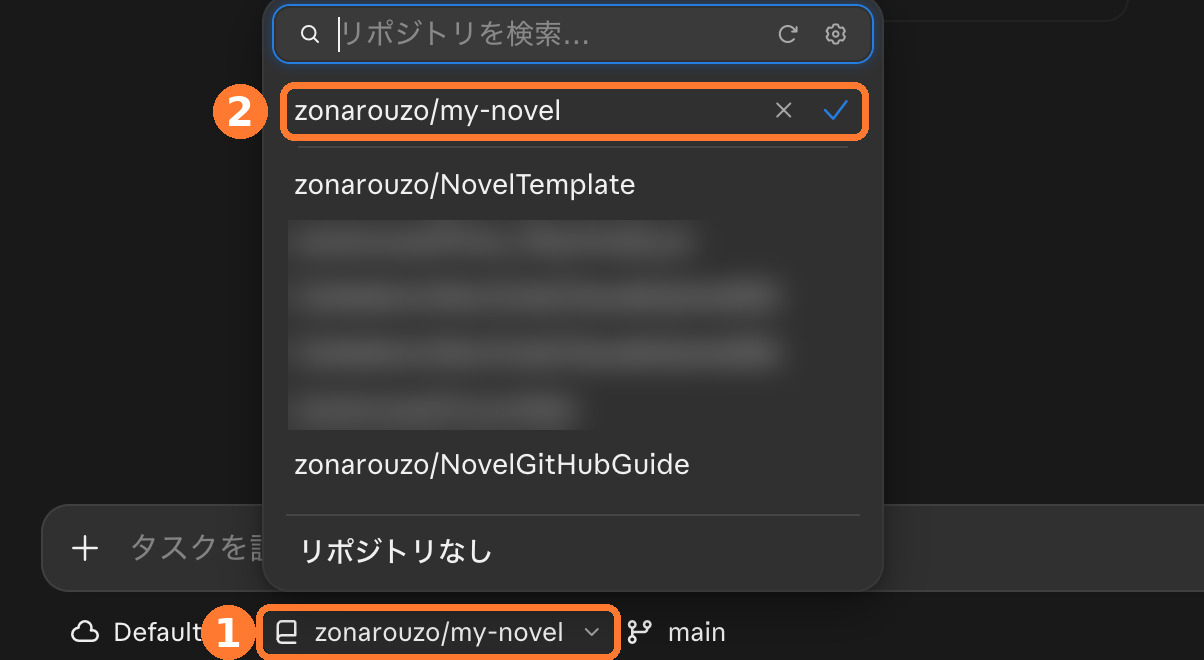
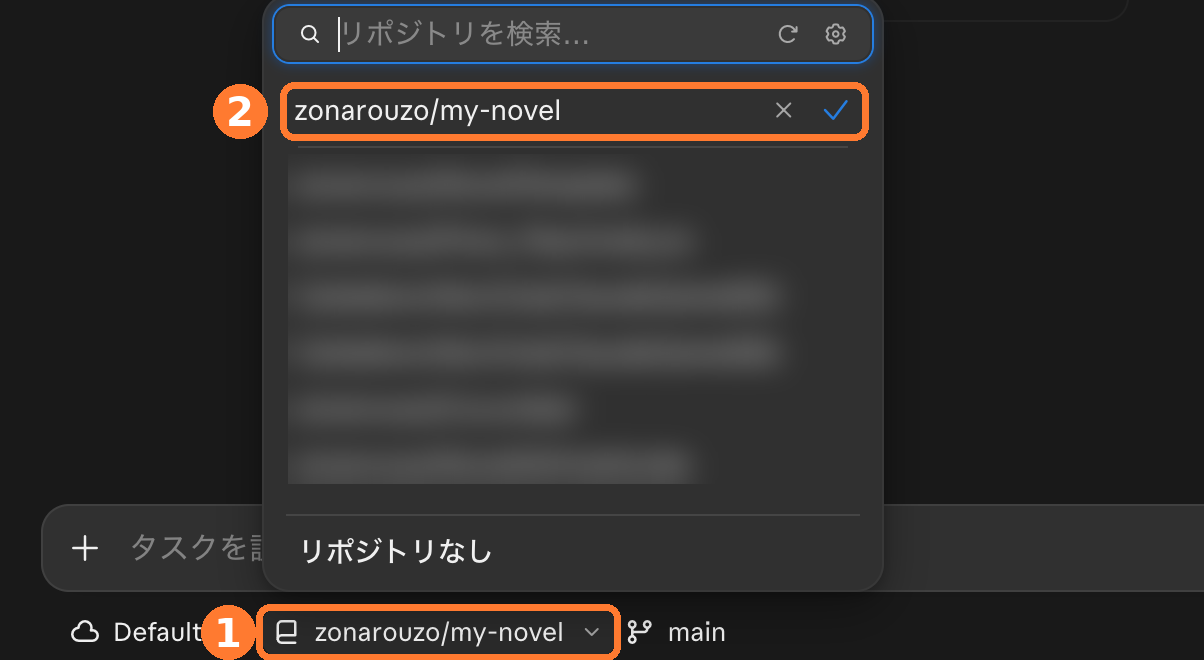
リポジトリ選択の「テンプレートは選ばないでください」を削除
- テンプレートは作者のアカウントにしか表示されないため、利用者向けの注意としては不要
- 小説版のリポジトリ選択の画像は、my-novel 以外のリポジトリ名をすべてぼかした

Claude-Session: https://claude.ai/code/session_01DEayDBXEUZcv8SXSVNajJw

Changed region(s): [[0.2458, 0.6667, 0.5839, 0.7273], [0.2458, 0.2424, 0.5224, 0.303]]

diff --git a/claude-code.html b/claude-code.html
@@ -87,7 +87,7 @@
     <figure class="shot" data-shot="claude-code-repo-select" data-caption="リポジトリを選ぶ画面の ①② の場所"></figure>
     <ul class="marks">
       <li><span class="mark">①</span><span>入力欄の下にある、<strong>本のアイコンのボタン</strong>（リポジトリ名）を押します。</span></li>
-      <li><span class="mark">②</span><span>一覧から、<strong>ステップ2で作った自分の小説のリポジトリ</strong>（画像では <code>my-novel</code>）を選びます（✓ が付きます）。テンプレート（NovelTemplate）は選ばないでください。</span></li>
+      <li><span class="mark">②</span><span>一覧から、<strong>ステップ2で作った自分の小説のリポジトリ</strong>（画像では <code>my-novel</code>）を選びます（✓ が付きます）。</span></li>
     </ul>
     <div class="note">
       <p>リポジトリが多いときは、上の検索欄に名前を入力すると見つけやすくなります。画像では、ほかのリポジトリ名をぼかしています。</p>
